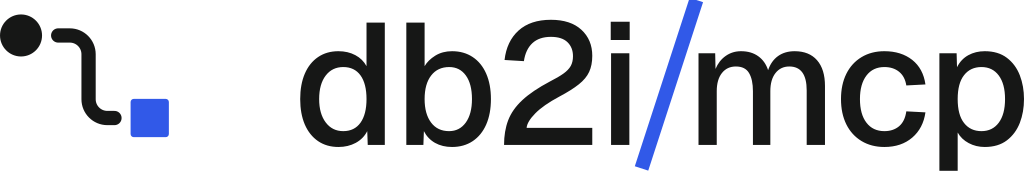
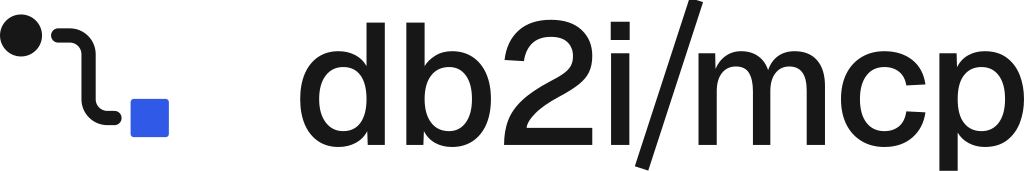
feat: monochrome slash in the wordmark
Blue stays only in the mark's end node. wordmark-accent-slash.svg is kept
for places without the mark.

Changed region(s): [[0.5938, 0.0, 0.6875, 0.9942]]

diff --git a/docs/assets/brand/README.md b/docs/assets/brand/README.md
@@ -25,8 +25,8 @@ Primary horizontal lockup:
 
 - route mark on the left
 - lowercase `db2i/mcp` wordmark on the right
-- ink letters with the slash in the accent blue
-- blue used for the mark's destination node and the slash
+- monochrome wordmark
+- blue used only in the mark's destination node
 
 Asset:
 
@@ -290,6 +290,7 @@ Do not:
 - use gradient fills
 - outline the terminal square
 - make both endpoints equally dominant
+- use the accent slash together with the blue terminal
 - let the route touch the circle or the square
 - add arrows to the route
 - put the logo inside a generic rounded capsule
@@ -298,13 +299,13 @@ Do not:
 
 ## 12. Slash usage
 
-The slash is a custom wordmark feature: longer than a normal slash, and set in the accent blue.
+The slash is a custom wordmark feature: longer than a normal slash, so it reads as a route between the two names. It is set in the same ink as the letters.
 
-- Primary: ink letters, blue slash (`wordmark-primary.svg`, `lockup-primary.svg`)
-- Dark backgrounds: light ink with the dark-mode blue (`wordmark-dark.svg`, `lockup-dark.svg`)
-- One color only: everything in ink or white (`wordmark-monochrome.svg`, `lockup-monochrome.svg`, `wordmark-white.svg`)
+- Primary: `wordmark-primary.svg`, `lockup-primary.svg` (ink), `wordmark-dark.svg`, `lockup-dark.svg` (light ink)
+- One color: `wordmark-monochrome.svg`, `lockup-monochrome.svg`, `wordmark-white.svg`
+- Optional: `wordmark-accent-slash.svg`, only where the route mark is not present and the wordmark needs one controlled accent
 
-Do not color the letters.
+Avoid a blue slash next to the blue terminal node. One accent is enough.
 
 ## 13. Website usage
 
@@ -337,6 +338,7 @@ Dark mode is secondary and works especially well for:
 - `svg/favicon.svg` (switches to the dark colors with the browser theme)
 - `svg/icon-tile.svg` (the mark on a warm tile: MCP server icon, `/icon.svg`)
 - `svg/wordmark-primary.svg`
+- `svg/wordmark-accent-slash.svg`
 - `svg/wordmark-dark.svg`
 - `svg/wordmark-monochrome.svg`
 - `svg/wordmark-white.svg`
